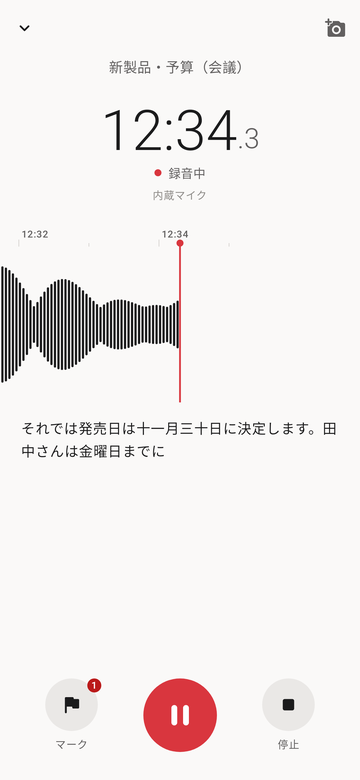
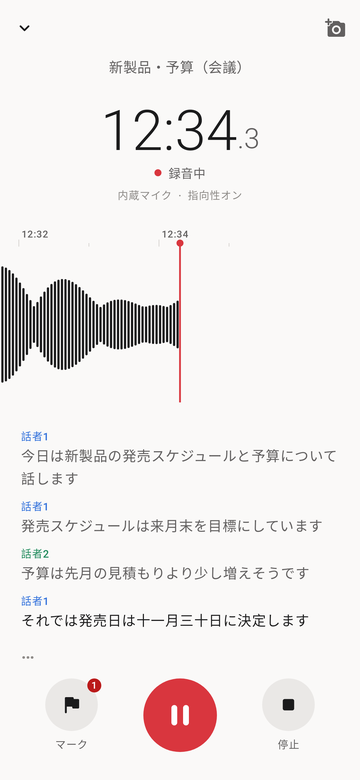
Document on-device AI, recording formats and merging
README, specification, validation and CI notes cover the new speech
and LLM models, AAC/MP3 recording, directional capture, translation
and merging. Screenshots are refreshed and the models screen and a
translated transcript are added.

diff --git a/README.md b/README.md
@@ -2,8 +2,8 @@
 
 [![Android CI](https://github.com/nekochan-cute/OpenRecorder/actions/workflows/android.yml/badge.svg)](https://github.com/nekochan-cute/OpenRecorder/actions/workflows/android.yml)
 
-A voice recorder for Android that transcribes, separates speakers and summarizes on the device.
-AI services are optional: connect OpenRouter, Google AI Studio, OpenAI, Groq or any OpenAI-compatible API when you want them.
+Android voice recorder with on-device transcription, speaker labels, summaries and translation.
+AI services (OpenRouter, Google AI Studio, OpenAI, Groq, OpenAI-compatible APIs) are optional.
 
 <p>
 <img src="docs/screenshots/library-light.png" width="180" alt="Recordings">
@@ -16,57 +16,56 @@ AI services are optional: connect OpenRouter, Google AI Studio, OpenAI, Groq or 
 
 | Area | |
 | --- | --- |
-| Recording | One tap to record, pause and resume, keeps recording with the screen off, 16 or 48 kHz, mono or stereo, built-in / wired / USB / Bluetooth microphones, crash-safe WAV with recovery |
-| Playback | Scrolling waveform with marks, drag to scrub, ±10 s, 0.5×–3× speed, silence skipping |
-| Marks | Flag a moment while recording or playing, add a note or a photo, tap to jump |
-| Editing | Keep or remove a selected range; the original is kept and the result is saved as a new recording |
-| Library | Folders, favourites, search across titles, transcripts, marks and summaries, trash, import of any format the phone can decode |
-| Transcription | Live captions while recording and transcription of saved audio with [Vosk](https://alphacephei.com/vosk/) (offline) or an AI service; edit text, tap a sentence to play from there |
-| Speakers | Offline speaker separation with the Vosk speaker model; rename speakers, fix a sentence's speaker |
-| Summary | Offline summary with an automatic title and templates for meetings (decisions, action items), lectures (key points) and interviews (questions and answers), or a summary from an AI service |
+| Recording | Pause and resume, screen-off recording, AAC (M4A), MP3 or WAV, 16 or 48 kHz, mono or stereo, built-in / wired / USB / Bluetooth mics, directional capture where supported, crash recovery |
+| Playback | Waveform with marks, drag to scrub, ±10 s, 0.5×–3× speed, silence skipping |
+| Marks | Notes and photos at a moment, tap to jump |
+| Editing | Keep or remove a range, or join recordings; originals are kept |
+| Library | Folders, favourites, search, trash, import |
+| Transcription | Live captions and saved audio with [sherpa-onnx](https://github.com/k2-fsa/sherpa-onnx) (ReazonSpeech, SenseVoice) or an AI service; editable, tap to play |
+| Speakers | Speaker labels on the device, live and refined after recording; rename and fix |
+| Summary | On-device LLM ([LiteRT-LM](https://github.com/google-ai-edge/LiteRT-LM): Gemma 4 E2B, TinySwallow 1.5B), extractive summary or an AI service; meeting, lecture and interview templates |
+| Translation | Seven languages with the on-device LLM or an AI service; timestamps and speakers are kept |
 | Audio clean-up | Noise reduction, voice enhancement and loudness levelling, saved as a new recording |
-| Sharing | Audio as M4A or WAV, transcript, SRT or WebVTT captions, summary as Markdown, list of marks |
+| Sharing | M4A, MP3 or WAV, transcript and translation, SRT or WebVTT, Markdown summary, marks |
 
 ## Privacy
 
-Recordings, photos and transcripts stay in app storage and are excluded from cloud backup. Nothing is sent
-anywhere unless you choose an AI service; API keys are encrypted with the Android Keystore. No ads or analytics.
+Data stays in app storage and out of cloud backup. Nothing is sent unless you choose an AI service; API keys are
+encrypted with the Android Keystore.
 
-## Speech models
+## On-device models
 
-Download a ZIP from the [Vosk model list](https://alphacephei.com/vosk/models) and add it under
-**Settings → Add model**. The app tells speech and speaker models apart by their contents.
+Downloaded under **Settings → Models**; interrupted downloads resume.
 
-- Speech: e.g. `vosk-model-small-ja-0.22` (Japanese) or `vosk-model-small-en-us-0.15` (English)
-- Speakers: `vosk-model-spk-0.4`
+| Purpose | Model | Size |
+| --- | --- | --- |
+| Transcription (ja) | ReazonSpeech v2, int8 | 160 MB |
+| Transcription (ja/en/zh/ko/yue) | SenseVoice Small, int8 | 239 MB |
+| Speech detection | Silero VAD | 2 MB |
+| Speakers | 3D-Speaker CAM++ | 28 MB |
+| Summary and translation | Gemma 4 E2B, TinySwallow 1.5B or your own `.litertlm` | 2.6 GB / 1.6 GB |
+
+The LLM needs arm64-v8a or x86_64. Model licences: [THIRD_PARTY_NOTICES.md](THIRD_PARTY_NOTICES.md).
 
 ## AI services
 
-**Settings → AI services** picks a service for summaries and one for transcription. OpenRouter supports
-signing in through the browser (OAuth PKCE); other services take an API key, with a button that opens the
-provider's key page. Models are listed from the service. Details: [docs/API_CONTRACT.md](docs/API_CONTRACT.md).
+**Settings → AI services** picks a service for summaries and one for transcription. OpenRouter signs in through
+the browser; the others take an API key.
 
 ## Download
 
-Each successful [CI run](https://github.com/nekochan-cute/OpenRecorder/actions/workflows/android.yml) publishes
-`debug-apks`. Most phones need the `arm64-v8a` APK.
+APKs are in the `debug-apks` artifact of each successful [CI run](https://github.com/nekochan-cute/OpenRecorder/actions/workflows/android.yml). Most phones need `arm64-v8a`.
 
 ## Building
 
-JDK 17 and the Android SDK (platform 35, build tools 35.0.0).
+JDK 17, Android SDK platform 35 and build tools 35.0.0. The first build downloads the sherpa-onnx AAR from
+Hugging Face and checks its SHA-256 (`app/build.gradle.kts`). Android 10 or later.
 
 ```sh
 ./gradlew :app:assembleDebug :app:testDebugUnitTest :app:lintDebug
-./gradlew :app:connectedDebugAndroidTest                                   # device or emulator
+./gradlew :app:connectedDebugAndroidTest
 ./gradlew :app:testDebugUnitTest --tests '*ScreenshotTest*' -Pscreenshots  # render screens to build/screenshots
 ```
-
-Android 10 (API 29) or later.
-
-## Documentation
-
-Japanese: [specification](docs/SPECIFICATION.md), [API contract](docs/API_CONTRACT.md),
-[testing and device checklist](docs/VALIDATION.md), [CI](docs/CI.md).
 
 ## License
 

diff --git a/THIRD_PARTY_NOTICES.md b/THIRD_PARTY_NOTICES.md
@@ -7,6 +7,7 @@ Open Recorder original code: Apache License 2.0. See LICENSE.
 | Component | Version | License / source |
 | --- | --- | --- |
 | AndroidX / Jetpack Compose / Media3 | See app/build.gradle.kts and BOM | Apache-2.0, https://android.googlesource.com/platform/frameworks/support/ and https://github.com/androidx/media |
+| Material icons (subset, in `ui/icons`) | 1.7.8 | Apache-2.0, https://android.googlesource.com/platform/frameworks/support/ |
 | Kotlin / kotlinx.coroutines | 2.4.21 / 1.10.2 | Apache-2.0, https://github.com/JetBrains/kotlin and https://github.com/Kotlin/kotlinx.coroutines |
 | sherpa-onnx (static ONNX Runtime build) | 1.12.21 | Apache-2.0, https://github.com/k2-fsa/sherpa-onnx |
 | ONNX Runtime (inside sherpa-onnx) | bundled | MIT, https://github.com/microsoft/onnxruntime |

diff --git a/app/src/main/assets/licenses/THIRD_PARTY_NOTICES.md b/app/src/main/assets/licenses/THIRD_PARTY_NOTICES.md
@@ -7,6 +7,7 @@ Open Recorder original code: Apache License 2.0. See LICENSE.
 | Component | Version | License / source |
 | --- | --- | --- |
 | AndroidX / Jetpack Compose / Media3 | See app/build.gradle.kts and BOM | Apache-2.0, https://android.googlesource.com/platform/frameworks/support/ and https://github.com/androidx/media |
+| Material icons (subset, in `ui/icons`) | 1.7.8 | Apache-2.0, https://android.googlesource.com/platform/frameworks/support/ |
 | Kotlin / kotlinx.coroutines | 2.4.21 / 1.10.2 | Apache-2.0, https://github.com/JetBrains/kotlin and https://github.com/Kotlin/kotlinx.coroutines |
 | sherpa-onnx (static ONNX Runtime build) | 1.12.21 | Apache-2.0, https://github.com/k2-fsa/sherpa-onnx |
 | ONNX Runtime (inside sherpa-onnx) | bundled | MIT, https://github.com/microsoft/onnxruntime |
